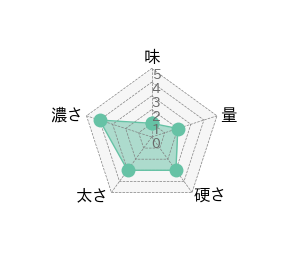
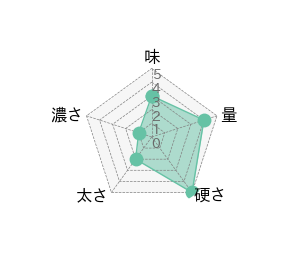
finish: magazine handler

Changed region(s): [[0.3077, 0.3398, 0.7552, 0.7722]]

diff --git a/magazine/handler/magazine_handler.py b/magazine/handler/magazine_handler.py
@@ -5,17 +5,21 @@ sys.path.append(str(Path(__file__).resolve().parent.parent))
 
 from models.radar_chart import RadarChartInput
 from models.ramen_info import RamenInfo
+from modules.create_radar_chart import create_radar_chart
 from modules.fetch_ramen_info import fetch_ramen_info
+from modules.make_magazine import make_magazine
 
 
 def magazine_handler(user_id: int):
     data = fetch_ramen_info(user_id)
     print(len(data))
 
-    img_urls = [d["image_url"] for d in data]
+    img_urls: list[str] = [d["image_url"] for d in data]
     print(img_urls, len(img_urls))
 
-    ramen_info_list = [RamenInfo(store=d["store_name"], name=d["name"]) for d in data]
+    ramen_info_list: list[RamenInfo] = [
+        RamenInfo(store=d["store_name"], name=d["name"]) for d in data
+    ]
     print(ramen_info_list)
 
     radar_chart_list = [
@@ -28,7 +32,25 @@ def magazine_handler(user_id: int):
         )
         for d in data
     ]
-    print(radar_chart_list)
+
+    # Create output directory if it doesn't exist
+    output_dir = Path("out/radar_chart")
+    output_dir.mkdir(parents=True, exist_ok=True)
+
+    radar_chart_path: list[Path] = []
+    # Create and save radar charts
+    for i, radar_chart_input in enumerate(radar_chart_list):
+        fig = create_radar_chart(radar_chart_input)
+        output_path = output_dir / f"radar_chart_{i}.png"
+        radar_chart_path.append(output_path)
+        fig.savefig(output_path)
+        print(f"Saved radar chart to {output_path}")
+
+    print(radar_chart_path)
+
+    # Create magazine
+    make_magazine(img_urls, radar_chart_path, ramen_info_list)
+    print("Created magazine")
 
 
 if __name__ == "__main__":

diff --git a/magazine/modules/create_radar_chart.py b/magazine/modules/create_radar_chart.py
@@ -1,0 +1,46 @@
+import sys
+from pathlib import Path
+
+sys.path.append(str(Path(__file__).resolve().parent.parent))
+import japanize_matplotlib  # noqa: F401
+import matplotlib as mpl
+import pandas as pd
+from matplotlib.figure import Figure
+from models.radar_chart import RadarChartInput
+from pycirclize import Circos
+
+
+def create_radar_chart(radar_chart_input: RadarChartInput) -> Figure:
+    # Create RPG jobs parameter dataframe (3 jobs, 7 parameters)
+    df = pd.DataFrame(
+        data=[
+            [
+                radar_chart_input.deliciousness_id,
+                radar_chart_input.portion_id,
+                radar_chart_input.noodletexture_id,
+                radar_chart_input.noodle_thickness_id,
+                radar_chart_input.soup_richness_id,
+            ]
+        ],
+        index=[""],
+        columns=["味", "量", "硬さ", "太さ", "濃さ"],
+    )
+
+    mpl.rcParams["font.size"] = 280
+
+    # Initialize Circos instance for radar chart plot
+    circos = Circos.radar_chart(
+        df,
+        vmax=5,
+        marker_size=10,
+        grid_interval_ratio=0.2,
+    )
+
+    # Plot figure & set legend on upper right
+    fig = circos.plotfig(figsize=(10, 10))
+
+    return fig
+
+
+if __name__ == "__main__":
+    create_radar_chart(RadarChartInput(3, 4, 5, 2, 1))

diff --git a/magazine/modules/make_magazine.py b/magazine/modules/make_magazine.py
@@ -19,12 +19,12 @@ LINE_HEIGHT = 28
 IMAGE_SIZE = 2.75
 BASE_PATH = "/Users/iwakiaoiyou/oshi-ramen/magazine/"
 pdfmetrics.registerFont(TTFont("IPAexGothic", "fonts/ipaexg.ttf"))
+BG_PATH = "assets/ramen-magazine-template-2.png"
+OUT_PATH = "out/magazine.pdf"
 
 
 def make_magazine(
-    output_path: str,
     images: list[str],
-    bg_path: str,
     redar_charts: list[Path],  # type: ignore
     ramen_info: list[RamenInfo],
 ):
@@ -34,12 +34,12 @@ def make_magazine(
     CHART_SIZE = 3
     RADIUS = 500
 
-    c = canvas.Canvas(output_path, pagesize=landscape(A4))
+    c = canvas.Canvas(OUT_PATH, pagesize=landscape(A4))
     width, height = landscape(A4)
     print(width, height)
 
     # background_imageを追加
-    c.drawImage(bg_path, 0, 0, width=width, height=height)
+    c.drawImage(BG_PATH, 0, 0, width=width, height=height)
 
     # Image1
     url = images[0]
